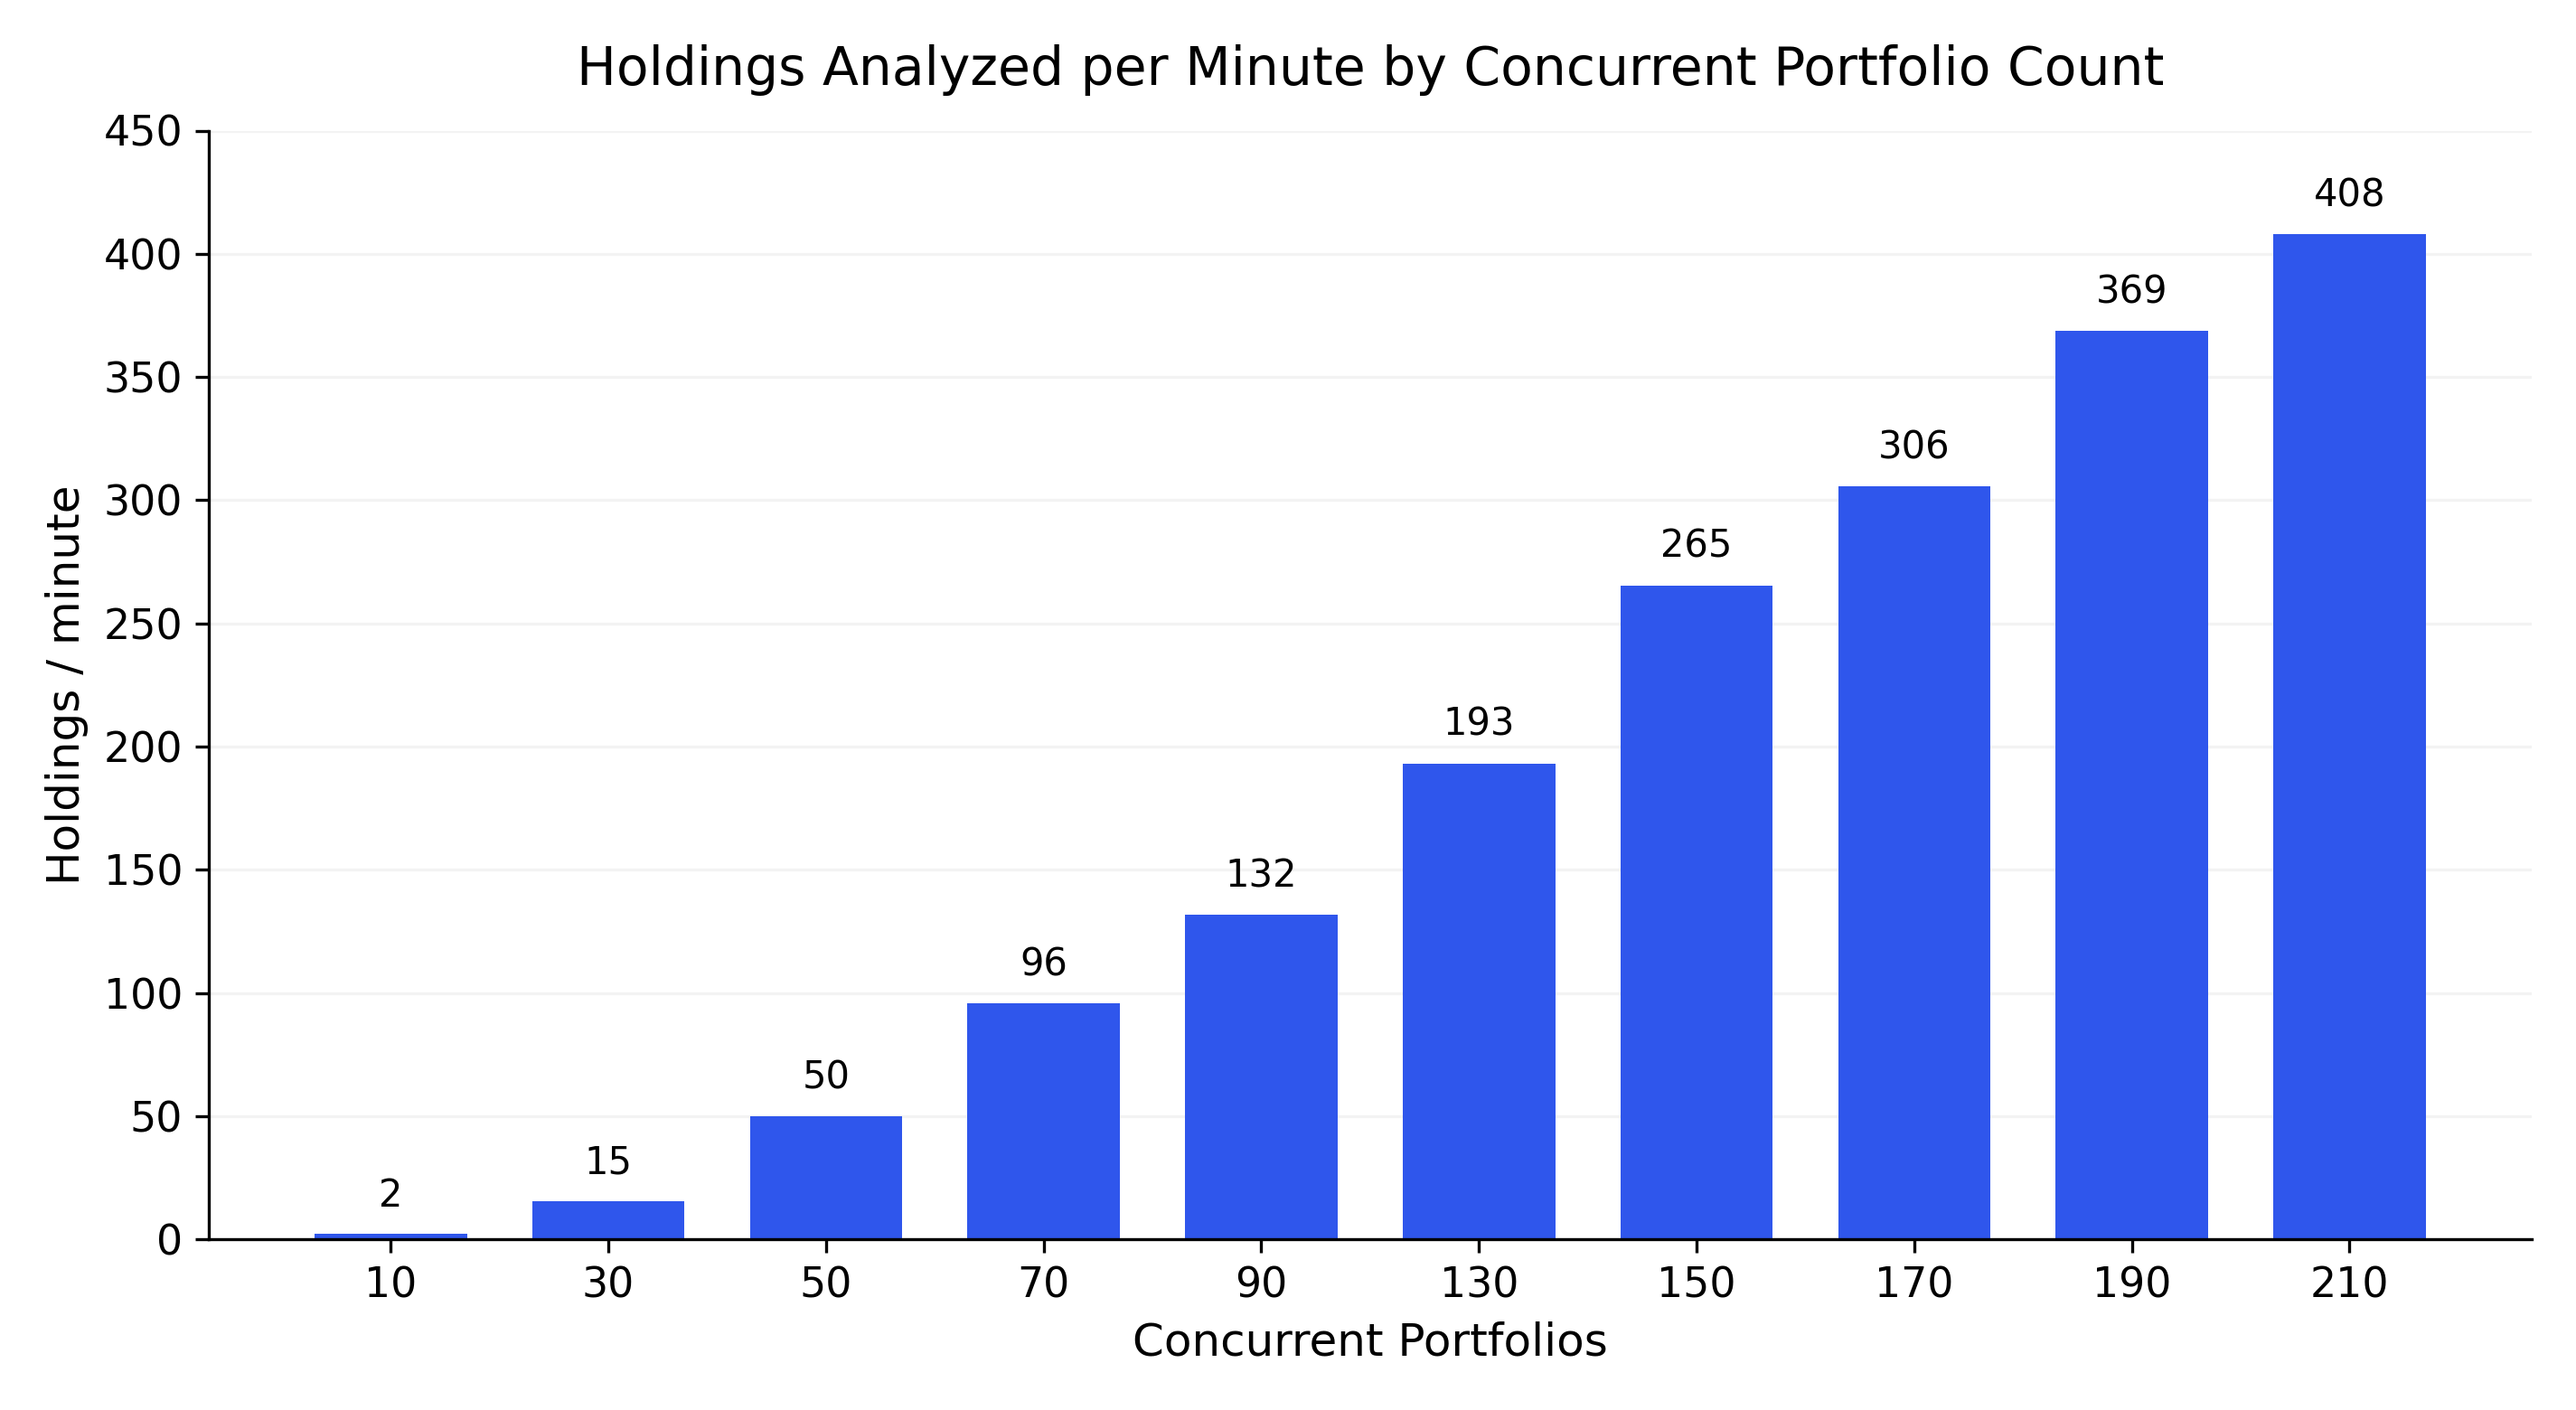
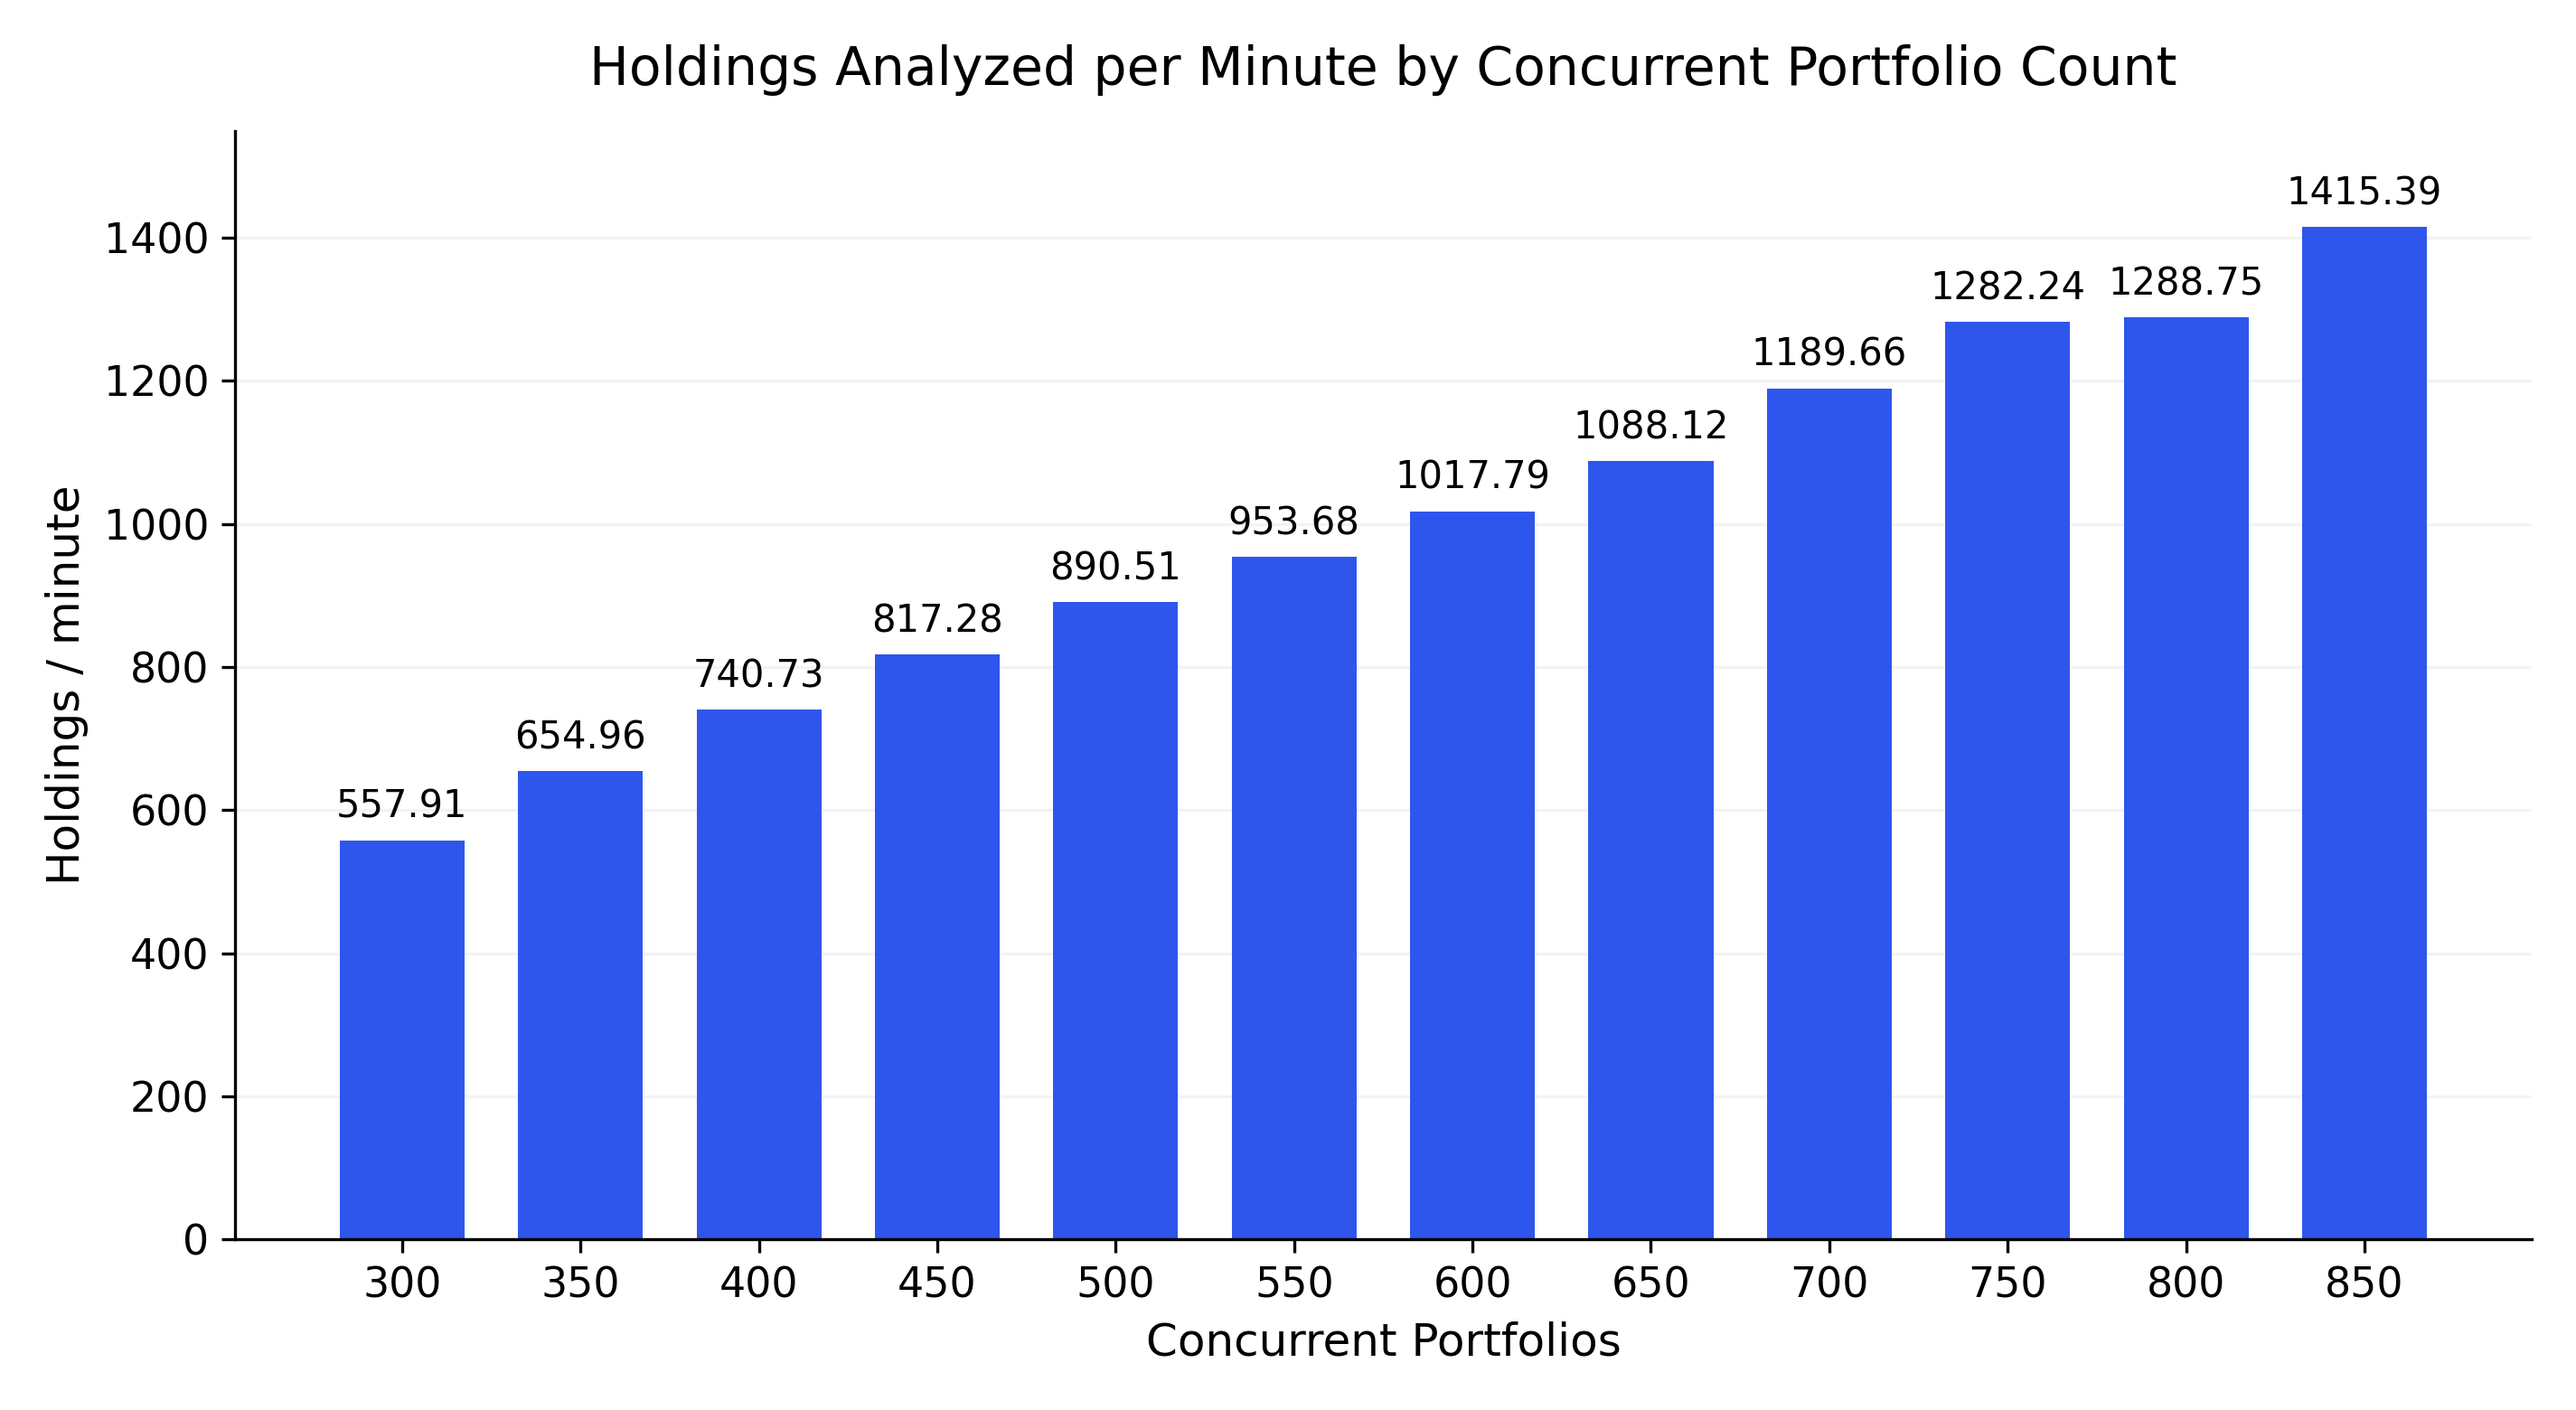
graphs

diff --git a/MetrumAI/FSI/graphs.py b/MetrumAI/FSI/graphs.py
@@ -30,7 +30,7 @@ def thousands(x, pos):
 # Common categorical axis for Figures 6 & 7
 # ============================================================
 
-labels = ["10","30","50","70","90","130","150","170","190","210"]
+labels = ["300","350","400","450","500","550","600","650","700","750","800","850"]
 x = np.arange(len(labels))
 
 # ============================================================
@@ -38,8 +38,8 @@ x = np.arange(len(labels))
 # ============================================================
 
 holdings = np.array([
-    2.13,15.36,49.83,95.71,131.70,
-    193.16,265.37,305.64,368.66,408.00
+    557.91, 654.96, 740.73, 817.28, 890.51, 953.68,
+    1017.79, 1088.12, 1189.66, 1282.24, 1288.75, 1415.39
 ])
 
 fig, ax = plt.subplots(figsize=(9.5,5.2))
@@ -53,15 +53,15 @@ ax.set_ylabel("Holdings / minute")
 ax.set_xticks(x)
 ax.set_xticklabels(labels)
 
-ax.set_ylim(0, 450)
+ax.set_ylim(0, 1550)
 style_axes(ax)
 
 for b in bars:
     h = b.get_height()
     ax.text(
         b.get_x() + b.get_width()/2,
-        h + 8,
-        f"{h:.0f}",
+        h + 20,
+        f"{h:.2f}",
         ha="center",
         va="bottom",
         fontsize=10
@@ -76,8 +76,8 @@ plt.close()
 # ============================================================
 
 compliance = np.array([
-    2.38,5.46,8.90,12.47,16.68,
-    19.36,22.24,24.14,25.10,33.00
+    53.35, 61.01, 71.04, 77.15, 84.18, 89.80,
+    94.92, 97.86, 101.87, 104.87, 107.89, 108.90
 ])
 
 fig, ax = plt.subplots(figsize=(9.5,5.2))
@@ -91,15 +91,15 @@ ax.set_ylabel("Compliance Checks / minute")
 ax.set_xticks(x)
 ax.set_xticklabels(labels)
 
-ax.set_ylim(0, 38)
+ax.set_ylim(0, 120)
 style_axes(ax)
 
 for b in bars:
     h = b.get_height()
     ax.text(
         b.get_x() + b.get_width()/2,
-        h + 0.7,
-        f"{h:.0f}",
+        h + 2,
+        f"{h:.2f}",
         ha="center",
         va="bottom",
         fontsize=10
